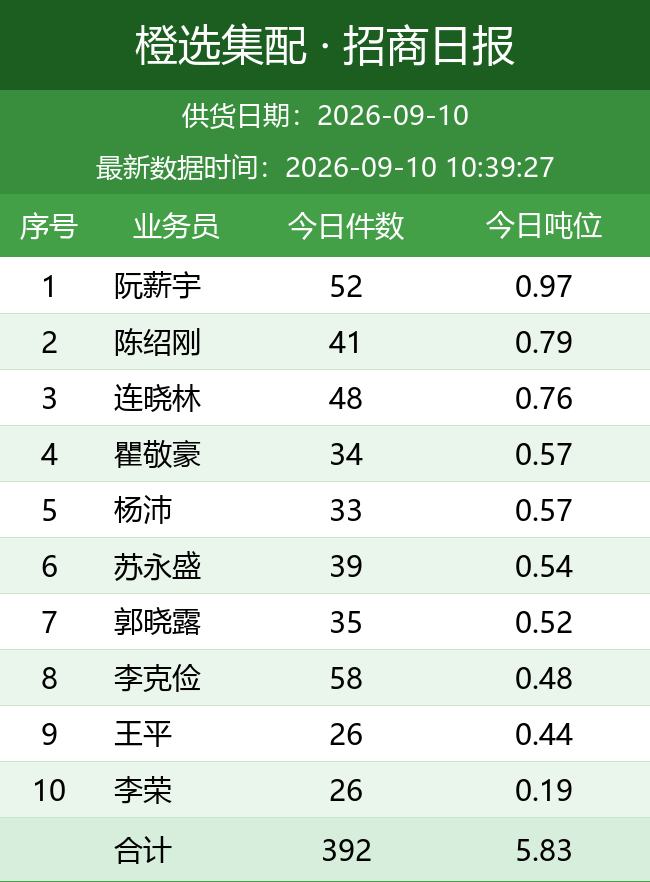
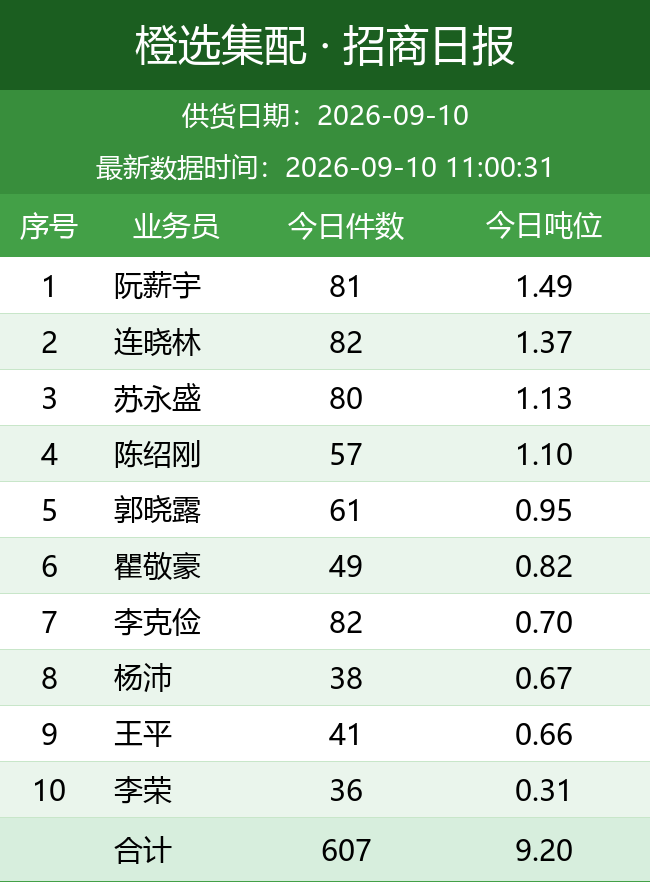
自动更新日报图片

diff --git a/index.html b/index.html
@@ -11,7 +11,7 @@ img { max-width: 100%; border: 1px solid #e5e5e5; margin-bottom: 24px; display: 
 </style>
 </head>
 <body>
-<h1>橙选集配日报图片（20260910_103931）</h1>
+<h1>橙选集配日报图片（20260910_110035）</h1>
 <img src="bd_latest.png" alt="BD 日报">
 <img src="wh_latest.png" alt="城市仓日报">
 <img src="zs_latest.png" alt="招商日报">
